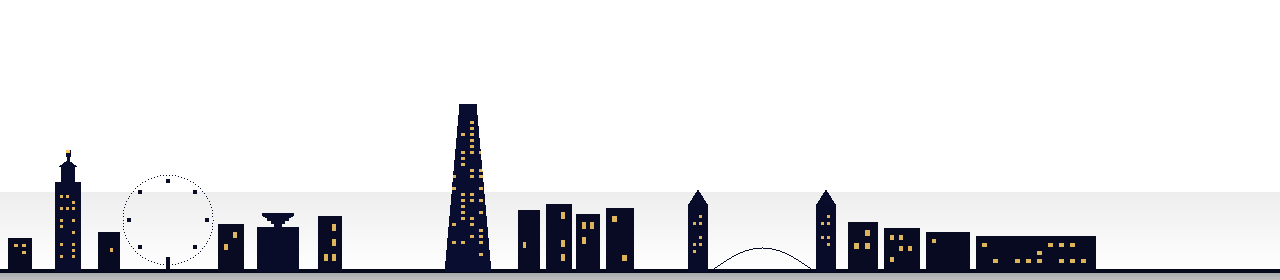
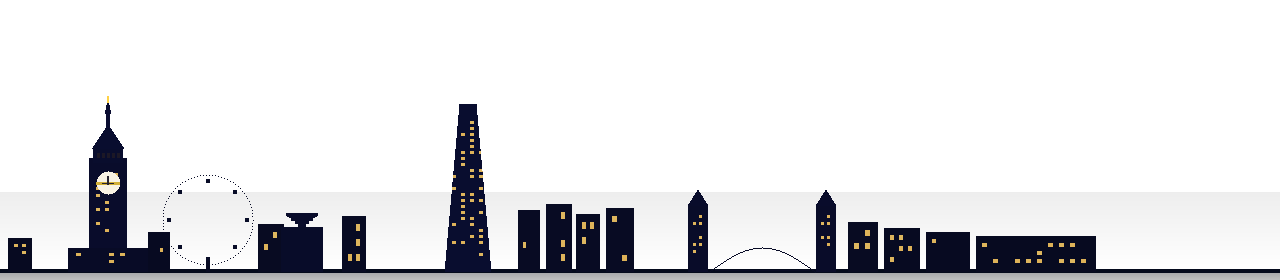
Deploy Stack Rush mobile PWA

Changed region(s): [[0.0312, 0.4571, 0.3125, 0.9714], [0.0625, 0.3714, 0.0938, 0.4286]]

diff --git a/index.html b/index.html
@@ -619,7 +619,7 @@
       <div class="section-divider"></div>
       <p class="theme-label">City skyline <span id="cityUnlockHint"></span></p>
       <div class="theme-grid" id="cityGrid"></div>
-      <p class="theme-label" id="buildVer" style="margin-top:10px;opacity:.35;font-size:.62rem;text-align:center;">Build 68f1f934</p>
+      <p class="theme-label" id="buildVer" style="margin-top:10px;opacity:.35;font-size:.62rem;text-align:center;">Build 7ed7c283</p>
       <button class="secondary" id="optionsBackBtn" style="width:100%;margin-top:10px;">Back</button>
     </div>
   </div>
@@ -710,7 +710,7 @@ const MUSIC_TRACKS = [
 
 const SFX_FILES = ['drop', 'land', 'perfect', 'great', 'good', 'slice', 'gameover'];
 const ASSETS_BASE = 'assets/';
-const ASSETS_VER = '68f1f934';
+const ASSETS_VER = '7ed7c283';
 const BOARD_KEY = 'stackrush_weekly_board';
 const PLAYER_NAME_KEY = 'stackrush_player_name';
 const BOARD_MAX = 15;
@@ -964,7 +964,7 @@ class AudioEngine {
 const BLOCK_H = 32;
 const BLOCK_D = 14; // 3D depth
 const SKYLINE_BASE_INSET = 8; // water strip at bottom of skyline PNGs (see generate_city_skylines.py)
-const SKYLINE_SCREEN_FOOT = 0.58; // distant horizon at game start (decoupled from ground blocks)
+const SKYLINE_SCREEN_FOOT = 0.64; // distant horizon at game start (decoupled from ground blocks)
 const SKYLINE_CLIMB_SCROLL = 0.42; // scrollUp span before skyline foot tracks the platform
 const GRAVITY = 5200;
 const DROP_BOOST = 520;
@@ -2891,6 +2891,40 @@ class GameEngine {
     ctx.globalAlpha = 1;
   }
 
+  _drawSkylineWindowFlicker(ctx, left, topY, width, height, alpha, time) {
+    if (alpha <= 0.04) return;
+    const rng = s => { s = Math.sin(s) * 1e4; return s - Math.floor(s); };
+    const seedBase = (this.cityId || 'neon').split('').reduce((n, c) => n + c.charCodeAt(0), 0);
+    const bandTop = topY + height * 0.1;
+    const bandH = height * 0.78;
+    const cols = Math.max(8, Math.floor(width / 12));
+    const rows = Math.max(6, Math.floor(bandH / 9));
+    const cellW = width / cols;
+    const cellH = bandH / rows;
+    ctx.save();
+    ctx.globalCompositeOperation = 'lighter';
+    for (let row = 0; row < rows; row++) {
+      for (let col = 0; col < cols; col++) {
+        const seed = seedBase + col * 17.31 + row * 29.7;
+        if (rng(seed) > 0.44) continue;
+        const phase = time * (1.6 + rng(seed + 1) * 2.8) + seed * 0.65;
+        const flicker = 0.5 + 0.5 * Math.sin(phase);
+        if (flicker < 0.22) continue;
+        const wx = left + col * cellW + cellW * 0.28;
+        const wy = bandTop + row * cellH + cellH * 0.22;
+        const ww = 1.5 + rng(seed + 2) * 2.5;
+        const wh = 1.5 + rng(seed + 3) * 2.5;
+        const warm = rng(seed + 4) > 0.14;
+        const a = alpha * flicker * (warm ? 0.55 : 0.28);
+        ctx.fillStyle = warm
+          ? `rgba(255,${186 + (rng(seed + 5) * 44) | 0},${58 + (rng(seed + 6) * 48) | 0},${a})`
+          : `rgba(118,188,255,${a})`;
+        ctx.fillRect(wx, wy, ww, wh);
+      }
+    }
+    ctx.restore();
+  }
+
   _drawCitySkyline(ctx, t) {
     const cosmic = this.cosmicBlend;
     const cityAlpha = Math.max(0, 0.92 - this.altitudeMeters / 55 - cosmic * 0.55);
@@ -2905,17 +2939,16 @@ class GameEngine {
       const scale = targetH / img.height;
       const tileW = img.width * scale;
       const tileH = img.height * scale;
-      const parallax = (this.skyScroll * 6) % tileW;
       const groundNorm = (img.height - SKYLINE_BASE_INSET) / img.height;
       const topY = skylineFootY - tileH * groundNorm;
+      const drawX = (this.w - tileW) * 0.5;
 
       ctx.save();
       ctx.globalAlpha = vivid ? Math.min(1, cityAlpha * 1.08) : cityAlpha;
       if (vivid) ctx.filter = 'saturate(1.25) brightness(1.08)';
-      for (let x = -parallax - tileW; x < this.w + tileW; x += tileW) {
-        ctx.drawImage(img, x, topY, tileW, tileH);
-      }
+      ctx.drawImage(img, drawX, topY, tileW, tileH);
       ctx.restore();
+      this._drawSkylineWindowFlicker(ctx, drawX, topY, tileW, tileH, cityAlpha, t);
       return;
     }
 
@@ -2926,12 +2959,9 @@ class GameEngine {
       const by = skylineFootY - bh;
       ctx.fillStyle = `rgba(12,14,32,${cityAlpha * (0.55 + rng(x + 2) * 0.25)})`;
       rr(ctx, x, by, bw, bh, 2); ctx.fill();
-      if (rng(x + 5) > 0.5 && bh > 40) {
-        ctx.fillStyle = `rgba(255,210,100,${cityAlpha * 0.35})`;
-        ctx.fillRect(x + bw * 0.35, by + bh * 0.35, 2, 3);
-      }
       x += bw + 5 + rng(x + 3) * 8;
     }
+    this._drawSkylineWindowFlicker(ctx, 0, skylineFootY - this.h * 0.22, this.w, this.h * 0.22, cityAlpha, t);
   }
 
   _drawBackground(ctx, t) {
@@ -4034,7 +4064,7 @@ if ('serviceWorker' in navigator) {
     location.reload();
   });
   window.addEventListener('load', () => {
-    navigator.serviceWorker.register('./sw.js?v=68f1f934').then((reg) => {
+    navigator.serviceWorker.register('./sw.js?v=7ed7c283').then((reg) => {
       reg.update();
       if (reg.waiting) reg.waiting.postMessage({ type: 'SKIP_WAITING' });
       reg.addEventListener('updatefound', () => {

diff --git a/sw.js b/sw.js
@@ -1,5 +1,5 @@
 /* Stack Rush service worker — generated by build_mobile.py */
-const CACHE = 'stackrush-68f1f934';
+const CACHE = 'stackrush-7ed7c283';
 const ASSETS = [
   "./manifest.webmanifest",
   "./icon.svg",
